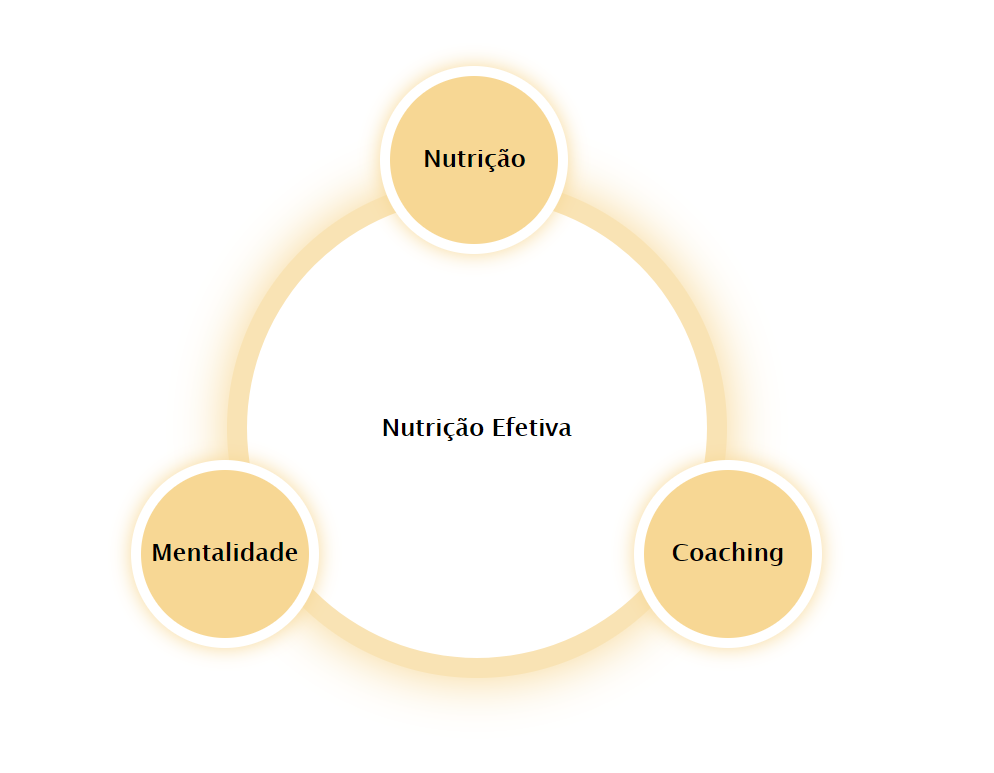
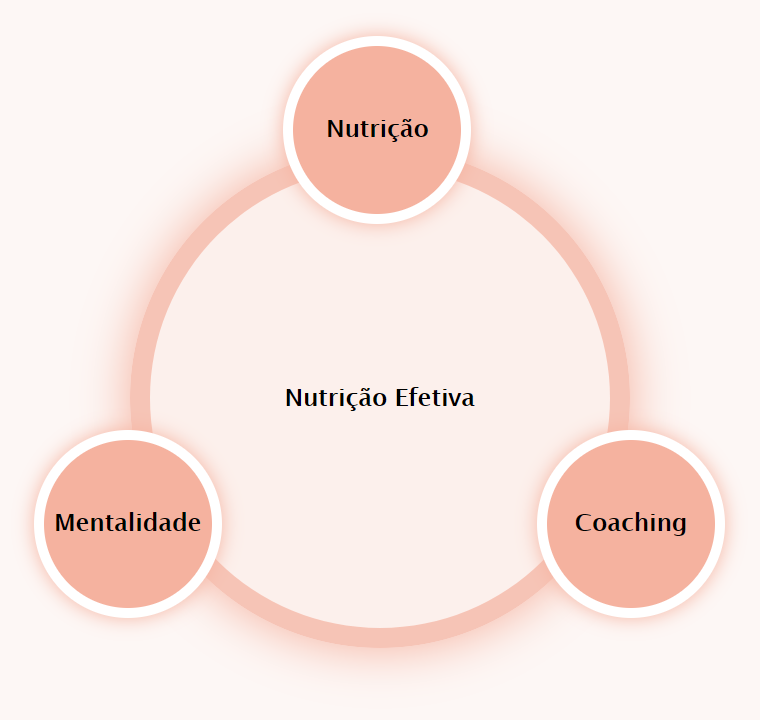
v.0.0.9

Changed region(s): [[0.0303, 0.0306, 0.9684, 0.9472], [0.3632, 0.5194, 0.6355, 0.5806]]

diff --git a/css/style.css b/css/style.css
@@ -30,6 +30,8 @@ html {
     font-weight: 500;
     line-height: 1.8em;
     color: black;
+    color: rgba(26, 26, 26, .8);
+    letter-spacing: 3px;
     background-color: rgba(245,178,159,0.1);
     /* background-color: linear-gradient(rgba(245,178,159,1) 100%, rgba(245,178,159,0.2) 100%); */
 }
@@ -40,8 +42,13 @@ html {
     background-position: center center;
     background-repeat: no-repeat;
     background-size: cover;
-    width: 100%;
-    min-height: 100%;
+    
+    /* background-color: rgba(245,178,159,0.0); */
+    /* background-color: transparent; */
+    margin-left: 10%;
+    margin-right: 10%;
+    width: 80%;
+    min-height: 80%;
     opacity: .3;
     z-index: -1;
 }
@@ -70,6 +77,7 @@ header {
 }
 
 section {
+    background-color: none;
     margin: 0;
     height: auto;
 }
@@ -99,7 +107,6 @@ section {
 .item h1 {
     text-align: center;
     font-family: 'OpenSans-Bold';
-    color: rgba(26, 26, 26, .8);
     margin: 15px
 }
 
@@ -216,22 +223,21 @@ section {
     justify-content: space-between;
     border: 1px rgba(245, 178, 159, .7) solid;
     border-radius: 5%;
-    padding: 10px;
+    padding: 5px;
     margin: 30px;
     box-shadow: 0px 0px 50px rgb(245, 178, 159);
 }
 
 .table-emagrecer-item {
-    padding: 5px;
+    padding: 10px;
     width: 33%;
     text-align: left;
 }
 
 .table-emagrecer-item:nth-child(2) {
+    padding: 10px;
     border-right: 2px rgba(245, 178, 159, .7) solid;
-    ;
     border-left: 2px rgba(245, 178, 159, .7) solid;
-    ;
 }
 
 .table-emagrecer-item h3 {

diff --git a/programa-emagrecimento.html b/programa-emagrecimento.html
@@ -56,9 +56,6 @@
                 <h2>EMAGREÇA ATÉ 13KG EM 100 DIAS!</h2>
                 <p>
                     Sem dietas malucas, sem restrição à toa e sem stress. Estamos aqui para descomplicar sua rotina e desbloquear o seu emagrecimento. Mulher, quantas dietas você já fez até hoje?
-
-
-                    <p>
                         Dieta detox, dos pontos, do tipo sanguíneo, jejum, low carb… No começo são uma maravilha, né?
                     </p>
                     <p>
